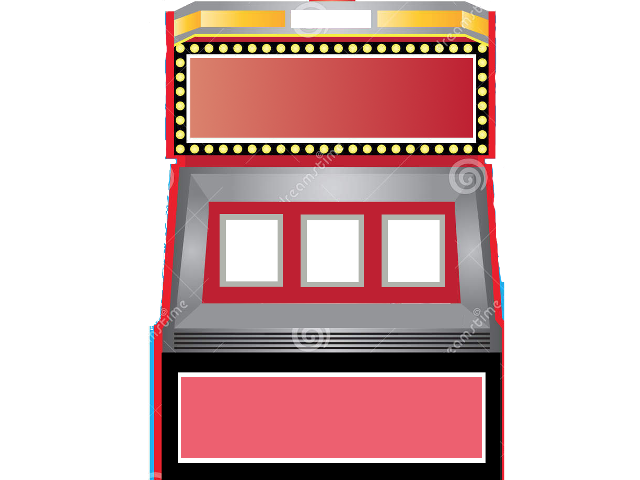
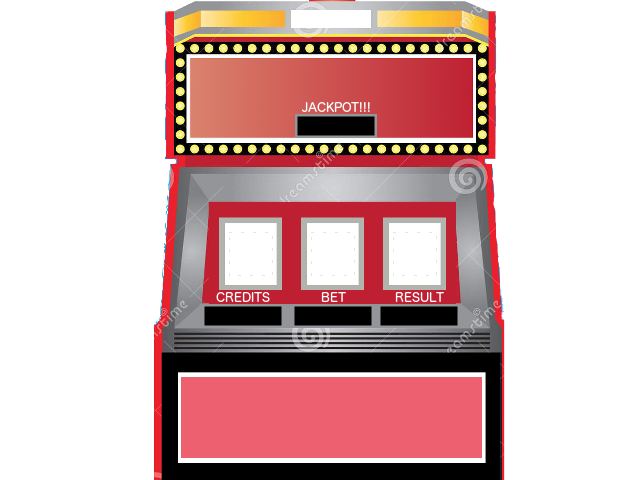
updated UI, implemented betting and spinning mechanism

diff --git a/Scripts/scenes/slotmachine.ts b/Scripts/scenes/slotmachine.ts
@@ -8,6 +8,14 @@ module scenes {
         private _bet100Button: objects.Button;
         private _spinButton: objects.Button;
         private _reels: createjs.Bitmap[];
+        private _jackPotText: objects.Label;
+        private _creditsText: objects.Label;
+        private _betText: objects.Label;
+        private _resultText: objects.Label;
+        private _playerMoney: number;
+        private _winnings: number;
+        private _jackpot: number;
+        private _playerBet: number;
 
         private _grapes = 0;
         private _bananas = 0;
@@ -27,6 +35,9 @@ module scenes {
 
         // Start Method
         public start(): void {
+            // Reset the Game to initialize values
+            this._resetAll();
+
             // add background image to the scene
             this._backgroundImage = new createjs.Bitmap(assets.getResult("SlotMachine"));
             this.addChild(this._backgroundImage);
@@ -51,15 +62,48 @@ module scenes {
             this.addChild(this._spinButton);
             this._spinButton.on("click", this._spinButtonClick, this);
 
+            // add JackPot Text to the scene
+            this._jackPotText = new objects.Label(
+                this._jackpot.toString(),
+                "14px Consolas",
+                "#ff2640",
+                367, 119, false
+            );
+            this._jackPotText.textAlign = 'right';
+            this.addChild(this._jackPotText);
+
+            // add Credits Text to the scene
+            this._creditsText = new objects.Label(
+                this._playerMoney.toString(),
+                "14px Consolas",
+                "#ff2640",
+                274, 309, false
+            );
+            this._creditsText.textAlign = 'right';
+            this.addChild(this._creditsText);
+
+            // add Bet Text to the scene
+            this._betText = new objects.Label(
+                this._playerBet.toString(),
+                "14px Consolas",
+                "#ff2640",
+                364, 309, false
+            );
+            this._betText.textAlign = 'right';
+            this.addChild(this._betText);
+
+            // add Result Text to the scene
+            this._resultText = new objects.Label(
+                this._winnings.toString(),
+                "14px Consolas",
+                "#ff2640",
+                450, 309, false
+            );
+            this._resultText.textAlign = 'right';
+            this.addChild(this._resultText);
+
             // Initialize Array of Bitmaps
-            this._reels = new Array<createjs.Bitmap>();
-            for (var reel: number = 0; reel < 3; reel++) {
-                this._reels[reel] = new createjs.Bitmap(assets.getResult("Blank"));
-                this._reels[reel].x = 229 + (reel * 82);
-                this._reels[reel].y = 232;
-                this.addChild(this._reels[reel]);
-                console.log("reel" + reel + " " + this._reels[reel]);
-            }
+            this._initializeBitMapArray();
 
             // Setup Background
             this._setupBackground("WhiteBackground");
@@ -80,6 +124,14 @@ module scenes {
         /* Utility function to check if a value falls within a range of bounds */
         private _checkRange(value: number, lowerBounds: number, upperBounds: number): number {
             return (value >= lowerBounds && value <= upperBounds) ? value : -1;
+        }
+
+        /* Utility function to reset the player stats */
+        private _resetAll() {
+            this._playerMoney = 1000;
+            this._winnings = 0;
+            this._jackpot = 5000;
+            this._playerBet = 0;
         }
 
         /* When this function is called it determines the betLine results.
@@ -128,24 +180,58 @@ module scenes {
             return betLine;
         }
 
+        private _initializeBitMapArray(): void {
+            this._reels = new Array<createjs.Bitmap>();
+            for (var reel: number = 0; reel < 3; reel++) {
+                this._reels[reel] = new createjs.Bitmap(assets.getResult("Blank"));
+                this._reels[reel].x = 229 + (reel * 82);
+                this._reels[reel].y = 232;
+                this.addChild(this._reels[reel]);
+                console.log("reel" + reel + " " + this._reels[reel]);
+            }
+        }
+
+        private _makeBet(playerBet: number): void {
+            // ensure the player has enough to successfully make his bet
+            if (playerBet <= this._playerMoney) {
+                this._playerBet += playerBet;
+                this._playerMoney -= playerBet;
+                this._creditsText.text = this._playerMoney.toString();
+                this._betText.text = this._playerBet.toString();
+            }
+            else {
+                // make error sound
+            }
+        }
+
         //EVENT HANDLERS ++++++++++++++++++++
         private _bet1ButtonClick(event: createjs.MouseEvent): void {
             console.log('Bet 1 Credit');
+            this._makeBet(1);
         }
 
         private _bet10ButtonClick(event: createjs.MouseEvent): void {
             console.log('Bet 10 Credit');
+            this._makeBet(10);
         }
 
         private _bet100ButtonClick(event: createjs.MouseEvent): void {
             console.log('Bet 100 Credit');
+            this._makeBet(100);
         }
 
         private _spinButtonClick(event: createjs.MouseEvent): void {
-            var bitmap: string[] = this._spinReels();
+            // ensure player has enough money to play
+            if (this._playerBet > 0) {
+                var bitmap: string[] = this._spinReels();
 
-            for (var reel: number = 0; reel < 3; reel++) {
-                this._reels[reel].image = assets.getResult(bitmap[reel]);
+                for (var reel: number = 0; reel < 3; reel++) {
+                    this._reels[reel].image = assets.getResult(bitmap[reel]);
+                }
+
+                // reset player's bet to zero
+                this._playerBet = 0;
+                this._betText.text = this._playerBet.toString();
             }
         }
     }

diff --git a/Scripts/scenes/slotmachine.js b/Scripts/scenes/slotmachine.js
@@ -23,6 +23,8 @@ var scenes;
         // PUBLIC METHODS +++++++++++++++++++++
         // Start Method
         SlotMachine.prototype.start = function () {
+            // Reset the Game to initialize values
+            this._resetAll();
             // add background image to the scene
             this._backgroundImage = new createjs.Bitmap(assets.getResult("SlotMachine"));
             this.addChild(this._backgroundImage);
@@ -42,15 +44,24 @@ var scenes;
             this._spinButton = new objects.Button("SpinButton", 412, 385, false);
             this.addChild(this._spinButton);
             this._spinButton.on("click", this._spinButtonClick, this);
+            // add JackPot Text to the scene
+            this._jackPotText = new objects.Label(this._jackpot.toString(), "14px Consolas", "#ff2640", 367, 119, false);
+            this._jackPotText.textAlign = 'right';
+            this.addChild(this._jackPotText);
+            // add Credits Text to the scene
+            this._creditsText = new objects.Label(this._playerMoney.toString(), "14px Consolas", "#ff2640", 274, 309, false);
+            this._creditsText.textAlign = 'right';
+            this.addChild(this._creditsText);
+            // add Bet Text to the scene
+            this._betText = new objects.Label(this._playerBet.toString(), "14px Consolas", "#ff2640", 364, 309, false);
+            this._betText.textAlign = 'right';
+            this.addChild(this._betText);
+            // add Result Text to the scene
+            this._resultText = new objects.Label(this._winnings.toString(), "14px Consolas", "#ff2640", 450, 309, false);
+            this._resultText.textAlign = 'right';
+            this.addChild(this._resultText);
             // Initialize Array of Bitmaps
-            this._reels = new Array();
-            for (var reel = 0; reel < 3; reel++) {
-                this._reels[reel] = new createjs.Bitmap(assets.getResult("Blank"));
-                this._reels[reel].x = 229 + (reel * 82);
-                this._reels[reel].y = 232;
-                this.addChild(this._reels[reel]);
-                console.log("reel" + reel + " " + this._reels[reel]);
-            }
+            this._initializeBitMapArray();
             // Setup Background
             this._setupBackground("WhiteBackground");
             // FadeIn - 500 milliseconds
@@ -65,6 +76,13 @@ var scenes;
         /* Utility function to check if a value falls within a range of bounds */
         SlotMachine.prototype._checkRange = function (value, lowerBounds, upperBounds) {
             return (value >= lowerBounds && value <= upperBounds) ? value : -1;
+        };
+        /* Utility function to reset the player stats */
+        SlotMachine.prototype._resetAll = function () {
+            this._playerMoney = 1000;
+            this._winnings = 0;
+            this._jackpot = 5000;
+            this._playerBet = 0;
         };
         /* When this function is called it determines the betLine results.
         e.g. Bar - Orange - Banana */
@@ -110,20 +128,50 @@ var scenes;
             }
             return betLine;
         };
+        SlotMachine.prototype._initializeBitMapArray = function () {
+            this._reels = new Array();
+            for (var reel = 0; reel < 3; reel++) {
+                this._reels[reel] = new createjs.Bitmap(assets.getResult("Blank"));
+                this._reels[reel].x = 229 + (reel * 82);
+                this._reels[reel].y = 232;
+                this.addChild(this._reels[reel]);
+                console.log("reel" + reel + " " + this._reels[reel]);
+            }
+        };
+        SlotMachine.prototype._makeBet = function (playerBet) {
+            // ensure the player has enough to successfully make his bet
+            if (playerBet <= this._playerMoney) {
+                this._playerBet += playerBet;
+                this._playerMoney -= playerBet;
+                this._creditsText.text = this._playerMoney.toString();
+                this._betText.text = this._playerBet.toString();
+            }
+            else {
+            }
+        };
         //EVENT HANDLERS ++++++++++++++++++++
         SlotMachine.prototype._bet1ButtonClick = function (event) {
             console.log('Bet 1 Credit');
+            this._makeBet(1);
         };
         SlotMachine.prototype._bet10ButtonClick = function (event) {
             console.log('Bet 10 Credit');
+            this._makeBet(10);
         };
         SlotMachine.prototype._bet100ButtonClick = function (event) {
             console.log('Bet 100 Credit');
+            this._makeBet(100);
         };
         SlotMachine.prototype._spinButtonClick = function (event) {
-            var bitmap = this._spinReels();
-            for (var reel = 0; reel < 3; reel++) {
-                this._reels[reel].image = assets.getResult(bitmap[reel]);
+            // ensure player has enough money to play
+            if (this._playerBet > 0) {
+                var bitmap = this._spinReels();
+                for (var reel = 0; reel < 3; reel++) {
+                    this._reels[reel].image = assets.getResult(bitmap[reel]);
+                }
+                // reset player's bet to zero
+                this._playerBet = 0;
+                this._betText.text = this._playerBet.toString();
             }
         };
         return SlotMachine;

diff --git a/Scripts/objects/label.ts b/Scripts/objects/label.ts
@@ -2,10 +2,14 @@
     // LABEL CLASS ++++++++++++++++++++++++++++++++++++++++++++++
     export class Label extends createjs.Text {
         // CONSTRUCTOR METHOD +++++++++++++++++++++++++++++++++++
-        constructor(labelString: string, labelFont: string, labelColour: string, x: number, y: number) {
+        constructor(labelString: string, labelFont: string, labelColour: string, x: number, y: number, isCentered: boolean) {
             super(labelString, labelFont, labelColour);
-            this.regX = this.getBounds().width * 0.5;
-            this.regY = this.getBounds().height * 0.5;
+
+            if (isCentered) {
+                this.regX = this.getBounds().width * 0.5;
+                this.regY = this.getBounds().height * 0.5;
+            }
+
             this.x = x;
             this.y = y;
         }

diff --git a/Scripts/objects/label.js b/Scripts/objects/label.js
@@ -9,10 +9,12 @@ var objects;
     var Label = (function (_super) {
         __extends(Label, _super);
         // CONSTRUCTOR METHOD +++++++++++++++++++++++++++++++++++
-        function Label(labelString, labelFont, labelColour, x, y) {
+        function Label(labelString, labelFont, labelColour, x, y, isCentered) {
             _super.call(this, labelString, labelFont, labelColour);
-            this.regX = this.getBounds().width * 0.5;
-            this.regY = this.getBounds().height * 0.5;
+            if (isCentered) {
+                this.regX = this.getBounds().width * 0.5;
+                this.regY = this.getBounds().height * 0.5;
+            }
             this.x = x;
             this.y = y;
         }

diff --git a/Scripts/scenes/gameover.js b/Scripts/scenes/gameover.js
@@ -16,7 +16,7 @@ var scenes;
         // Start Method
         GameOver.prototype.start = function () {
             // add the GAME OVER Label to the GAME_OVER scene
-            this._gameOverLabel = new objects.Label("GAME OVER", "60px Consolas", "#000", config.Screen.CENTER_X, config.Screen.CENTER_Y);
+            this._gameOverLabel = new objects.Label("GAME OVER", "60px Consolas", "#000", config.Screen.CENTER_X, config.Screen.CENTER_Y, true);
             this.addChild(this._gameOverLabel);
             // add the START button to the GAME_OVER scene
             this._startOverButton = new objects.Button("StartButton", config.Screen.CENTER_X, config.Screen.CENTER_Y + 80, true);

diff --git a/Scripts/scenes/menu.js b/Scripts/scenes/menu.js
@@ -16,7 +16,7 @@ var scenes;
         // Start Method
         Menu.prototype.start = function () {
             // add the WELCOME Label to the MENU scene
-            this._welcomeLabel = new objects.Label("SLOT MACHINE", "60px Consolas", "#000", config.Screen.CENTER_X, config.Screen.CENTER_Y);
+            this._welcomeLabel = new objects.Label("SLOT MACHINE", "60px Consolas", "#000", config.Screen.CENTER_X, config.Screen.CENTER_Y, true);
             this.addChild(this._welcomeLabel);
             // add the START button to the MENU scene
             this._startButton = new objects.Button("StartButton", config.Screen.CENTER_X, config.Screen.CENTER_Y + 80, true);

diff --git a/Scripts/scenes/gameover.ts b/Scripts/scenes/gameover.ts
@@ -21,7 +21,7 @@ module scenes {
                 "60px Consolas",
                 "#000",
                 config.Screen.CENTER_X,
-                config.Screen.CENTER_Y);
+                config.Screen.CENTER_Y, true);
             this.addChild(this._gameOverLabel);
 
             // add the START button to the GAME_OVER scene

diff --git a/Scripts/scenes/menu.ts b/Scripts/scenes/menu.ts
@@ -21,7 +21,7 @@ module scenes {
                 "60px Consolas",
                 "#000",
                 config.Screen.CENTER_X,
-                config.Screen.CENTER_Y);
+                config.Screen.CENTER_Y, true);
             this.addChild(this._welcomeLabel);
 
             // add the START button to the MENU scene
